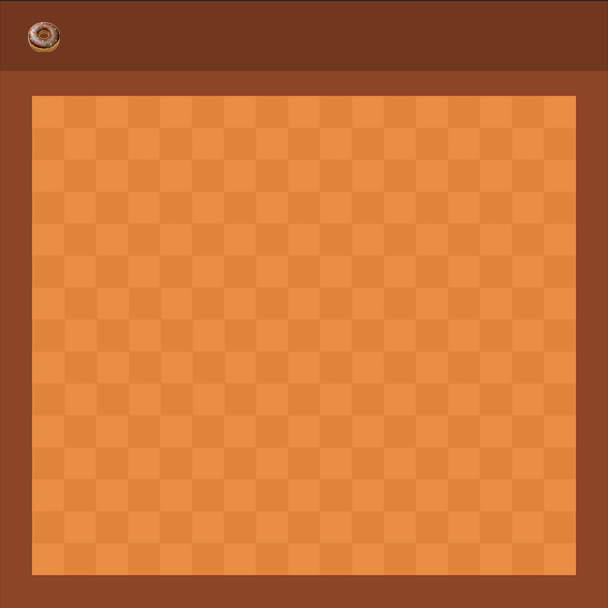
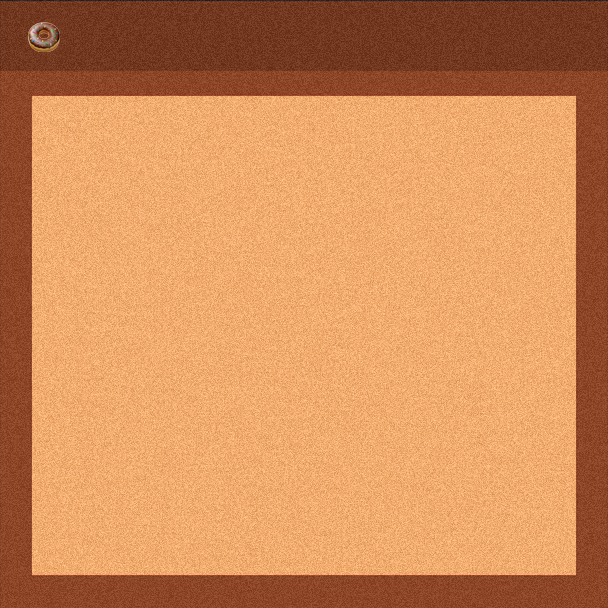
Small changes

diff --git a/snake.js b/snake.js
@@ -10,7 +10,7 @@ const pomeraj = 32;
 
 //ucitavanje slika-slikom predstavljamo pozadinu i hranu tj. krofne
 const pesak = new Image();
-pesak.src = "img/sand1.jpeg";
+pesak.src = "img/sand.png";
 const krofnaSlika = new Image();
 krofnaSlika.src = "img/food.png";
 
